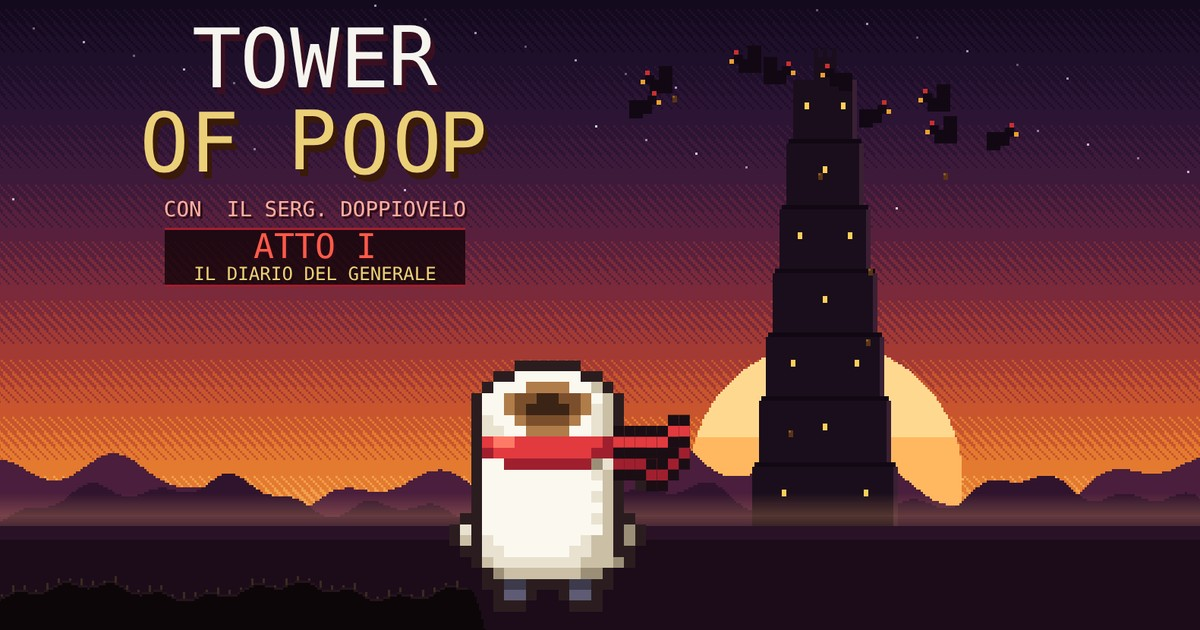
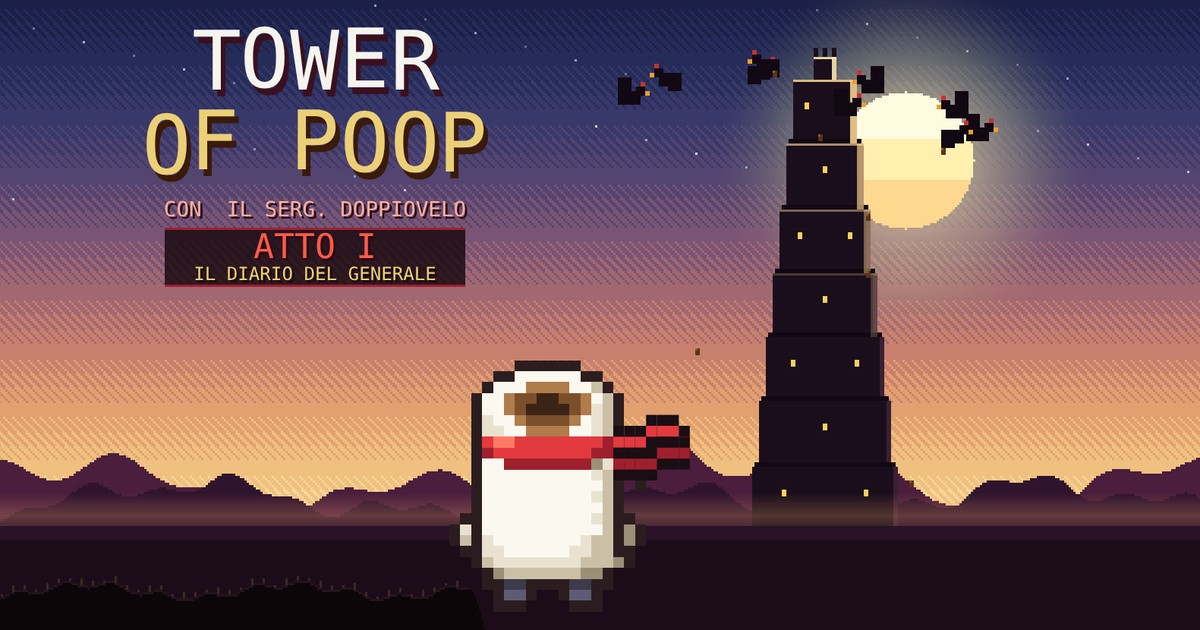
v165: the title sky follows the act
Act I: a high pale sun beside the top of the tower, the upper tiers lit on the
sun side. Act II: the sun halfway down, a warmer sky. Act III: the original
sunset, and the tower breathes a pulsing violet aura with rising motes (not
after the true ending, when the tower is dead). The Queen's words and her
diary flash move to the bottom right, away from the menu. New preview image.

Claude-Session: https://claude.ai/code/session_01DAUgbKHXpAstmYQjE4nBJ9

diff --git a/build/tower-of-poop.html b/build/tower-of-poop.html
@@ -3436,7 +3436,7 @@ Object.assign(BRULE,{
    phase(b,ph){b.mt=1;},draw(b){if(b.mw){ctx.globalAlpha=.25+.25*Math.sin(G.time*30);ell(ctx,b.x,b.y-b.r*.6,b.r*1.3,b.r*1.4,'#ffffff');ctx.globalAlpha=1;}
    if(G.mirrorCtl>G.time){const R=b.R;ctx.globalAlpha=.18+.08*Math.sin(G.time*8);ctx.strokeStyle='#c8e8ff';ctx.lineWidth=3;ctx.strokeRect(R.x0+2,R.y0+2,R.x1-R.x0-4,R.y1-R.y0-4);ctx.globalAlpha=1;}}}});
 // ---------- anonymous play stats: no names, no ids, nothing that leads back to a person ----------
-const STATV=164;
+const STATV=165;
 const ERRSENT=new Set();
 function statErr(err){if(ERRSENT.size>=8||!statOnWorker())return;const msg=String(err&&err.message||err||'?').slice(0,90),st=String(err&&err.stack||'').split('\n').find(l=>/:\d+:\d+/.test(l))||'',at=(st.match(/:(\d+:\d+)\)?\s*$/)||[])[1]||'';const key=msg+at;if(ERRSENT.has(key))return;ERRSENT.add(key);statPost({t:'err',msg,at});}
 addEventListener('error',e=>{try{statErr(e.error||e.message);}catch(_){}});
@@ -3619,6 +3619,45 @@ function frenzyOverButtons(cx, y) {
   one(cx + 4, 92, TTX(L3('BASTION', 'BALUARDO', 'BALUARTE')), '#3a2a12', () => { FADE = .8; enterHub(); });
 }
 function overTap(e) { if (!(G && G.frenzy) || performance.now() - (S.overT0 || 0) < 1500) return false; for (const b of S.oBtns || []) if (hitDev(e, b.r)) { b.act(); return true; } return false; }
+// ---------- the title sky follows the story: high sun in act I, halfway in act II, sunset and a violet aura in act III ----------
+function titleSun(g, act, w, h, hz, tx) {
+  if (act >= 3) return false; // act III keeps the original sunset
+  const sr = Math.round(h * (act === 1 ? .085 : .11)), sx = tx + Math.round(h * (act === 1 ? .1 : .13)), sy = act === 1 ? Math.round(h * .2) : Math.round(hz - h * .26);
+  // halo
+  for (let r = sr * 3; r > sr; r -= 2) { g.globalAlpha = .05 * (1 - (r - sr) / (sr * 2)); g.fillStyle = act === 1 ? '#fff0b0' : '#ffc070'; g.beginPath(); g.arc(sx, sy, r, 0, Math.PI * 2); g.fill(); }
+  g.globalAlpha = 1;
+  for (let y = -sr; y <= sr; y++) for (let x = -sr; x <= sr; x++) if (x * x + y * y <= sr * sr) {
+    g.fillStyle = act === 1 ? (y < -sr * .3 ? '#fffbe0' : y < sr * .3 ? '#fff0b0' : '#ffd890') : (y < -sr * .3 ? '#ffe0a0' : y < sr * .2 ? '#ffc070' : '#ff9a50'); g.fillRect(sx + x, sy + y, 1, 1);
+  }
+  return true;
+}
+function titleSky(act) {
+  if (act === 1) return ['#1c2048', '#262c5a', '#38386a', '#544470', '#7a5474', '#a26872', '#c8806e', '#e2a070', '#f0c080', '#f6d898'];
+  if (act === 2) return ['#18102a', '#24163a', '#341c44', '#4c2448', '#6a2e48', '#8e3a44', '#b44e3a', '#d86c36', '#ea8e40', '#f4ae58'];
+  return null;
+}
+// sunlight on the side of the tower that faces the sun
+function titleTowerLight(g, act, h, B) {
+  if (act >= 3) return; const base = B.hz + 2, th = (base - B.top) / 7, n = act === 1 ? 4 : 2;
+  for (let i = 7 - n; i < 7; i++) {
+    const y0 = Math.round(base - (i + 1) * th), y1 = Math.round(base - i * th), hw = Math.round((26 - i * 2.4) * h / 288), k = (i - (7 - n) + 1) / n;
+    g.globalAlpha = (act === 1 ? .85 : .55) * k; g.fillStyle = act === 1 ? '#ffd890' : '#ffb060'; g.fillRect(B.tx + hw - 3, y0, 3, y1 - y0); g.fillRect(B.tx - hw, y0, hw * 2, 1);
+  }
+  g.globalAlpha = act === 1 ? .9 : .6; g.fillStyle = act === 1 ? '#ffe8b0' : '#ffc070'; g.fillRect(B.tx - 5, B.top - 10, 10, 1); g.fillRect(B.tx + 3, B.top - 10, 2, 10); g.globalAlpha = 1;
+}
+// act III: the tower breathes a violet aura
+function titleAura(B, t, h) {
+  const tx = B.tx, top = B.top - 14, base = B.hz + 2, mid = (top + base) / 2, p = .65 + .35 * Math.sin(t * 1.6);
+  ctx.save(); ctx.globalCompositeOperation = 'lighter';
+  const gr = ctx.createRadialGradient(tx, mid, h * .04, tx, mid, h * .46); gr.addColorStop(0, 'rgba(170,70,230,' + (.3 * p) + ')'); gr.addColorStop(.6, 'rgba(130,40,200,' + (.12 * p) + ')'); gr.addColorStop(1, 'rgba(120,40,180,0)');
+  ctx.fillStyle = gr; ctx.fillRect(tx - h * .5, top - h * .2, h, base - top + h * .3);
+  titleTower(B, h, (i, y0, y1, hw) => { ctx.globalAlpha = .45 * p; ctx.fillStyle = '#c070ff'; ctx.fillRect(tx - hw - 2, y0, 2, y1 - y0); ctx.fillRect(tx + hw, y0, 2, y1 - y0); });
+  if (!reduced) for (let k = 0; k < 18; k++) {
+    const per = 4 + k % 5, u = ((t + k * 1.37) % per) / per, x = tx + Math.sin(k * 2.1 + t * .7) * (h * .05 + (k % 4) * 3), y = base - u * (base - top + h * .12);
+    ctx.globalAlpha = (1 - u) * .85; ctx.fillStyle = k % 3 ? '#d8a0ff' : '#ffffff'; ctx.fillRect(Math.round(x), Math.round(y), 1 + (k % 5 === 0), 1 + (k % 5 === 0));
+  }
+  ctx.restore();
+}
 function playScene(lines,title,sub,after){S.mode='scene';S.scene={lines,i:0,ch:0,title,sub,after,right:(lines.find(l=>l[0]!=='two'&&l[0]!=='nar'&&l[0]!=='book')||['sponge'])[0]};setState();}
 function showMap(from,to,after){S.mode='map';S.mapA={from,to,t:0,after};setState();}
 function advanceStory(){
@@ -5868,7 +5907,7 @@ function titleRootNet(B,w,h){if(TRN&&TRN.w===w&&TRN.h===h)return TRN.n;let sd=97
   TRN={w,h,n:out};return out;}
 function titleStage(){try{if(SV.qEnd)return 5;const n=qCount(),tg=fallenTagCount();if(n>=21&&tg>=12)return 4;if(n>=14)return 3;if(n>=7)return 2;if(n>=1)return 1;}catch(e){}return 0;}
 function titleTower(B,h,fn){const base=B.hz+2,th=(base-B.top)/7;for(let i=0;i<7;i++){const y0=Math.round(base-(i+1)*th),y1=Math.round(base-i*th),hw=Math.round((26-i*2.4)*h/288);fn(i,y0,y1,hw);}}
-function titleBack(B,t,QS,w,h){if(!QS)return;const tx=B.tx;
+function titleBack(B,t,QS,w,h){if(B.act>=3&&QS!==5)titleAura(B,t,h);if(!QS)return;const tx=B.tx;
   if(QS===5){// dawn: a pale sky, a dead grey tower without lights
     const g=ctx.createLinearGradient(0,0,0,B.hz);g.addColorStop(0,'rgba(110,150,200,.62)');g.addColorStop(.7,'rgba(240,190,170,.5)');g.addColorStop(1,'rgba(255,220,180,.45)');ctx.fillStyle=g;ctx.fillRect(0,0,w,B.hz);
     titleTower(B,h,(i,y0,y1,hw)=>{rect(ctx,tx-hw,y0,hw*2,y1-y0,'#4a4650');rect(ctx,tx+hw-2,y0,2,y1-y0,'#5c5864');rect(ctx,tx-hw-2,y1-2,hw*2+4,2,'#36323c');});
@@ -5900,14 +5939,14 @@ function titleFront(B,t,QS,sc,hx,hy,w,h){if(!QS)return;
     if(!SPR.qhenB)SPR.qhenB=fromMap(QHENB.f[0],QHENB.p);const im=SPR.qhenB,k=Math.max(1,sc-1),cx=hx-Math.round(16*sc),gy=B.ctop+Math.round(Math.sin(cx*.3)*1.5+Math.sin(cx*.07)*3),bob=Math.sin(t*1.3)>.92?-k:0;ctx.save();ctx.translate(cx-Math.round(im.width*k/2),gy-im.height*k+k+bob);ctx.scale(k,k);ctx.drawImage(im,0,0);ctx.restore();}
   // her words, trembling in violet, now and then
   const L=TPHR[QS];if(L&&L.length){const cyc=11,c=t%cyc,i=Math.floor(t/cyc)%L.length;if(c>1.5&&c<7){const a=Math.min(1,(c-1.5)/.8,(7-c)/.8);const str=LG==='it'?L[i][1]:L[i][0];
-      ctx.globalAlpha=a;const lines=wrapText(str,Math.round(w*.46),10);lines.forEach((l,j)=>{ctx.font=(10*FONTK)+'px Silkscreen, ui-monospace, monospace';const lw=ctx.measureText(l).width;livingText(l,Math.round(w*.3-lw/2),Math.round(h*.06)+76+j*15,10,'#c070f0',t,j*30+i*7,1.3,999);});ctx.globalAlpha=1;}}
-  if(QS===4&&!reduced&&(t%5)<1.1){ctx.globalAlpha=.5+.5*Math.sin(t*20);NOTR=true;waveText(LG==='it'?'IL DIARIO DELLA REGINA':T_('THE QUEEN\'S DIARY'),Math.round(w*.3),Math.round(h*.06)+60,9,'#c87aff','#1a0420',t,1.5);NOTR=false;ctx.globalAlpha=1;}}
-function titleBackdrop(w,h){const [c,g]=mk(w,h),hz=Math.round(h*.66);
-  const sky=['#140a1e','#1e0f2a','#2c1434','#3e1a3a','#58203c','#7a2a3a','#a33a34','#c8552e','#e47a30','#f2a04a'];
+      ctx.globalAlpha=a;const lines=wrapText(str,Math.round(w*.46),10);lines.forEach((l,j)=>{ctx.font=(10*FONTK)+'px Silkscreen, ui-monospace, monospace';const lw=ctx.measureText(l).width;livingText(l,Math.round(w*.7-lw/2),Math.round(h*.7)-lines.length*15+j*15,10,'#c070f0',t,j*30+i*7,1.3,999);});ctx.globalAlpha=1;}}
+  if(QS===4&&!reduced&&(t%5)<1.1){ctx.globalAlpha=.5+.5*Math.sin(t*20);NOTR=true;waveText(LG==='it'?'IL DIARIO DELLA REGINA':T_('THE QUEEN\'S DIARY'),Math.round(w*.7),Math.round(h*.75),9,'#c87aff','#1a0420',t,1.5);NOTR=false;ctx.globalAlpha=1;}}
+function titleBackdrop(w,h,act){act=act||3;const [c,g]=mk(w,h),hz=Math.round(h*.66);
+  const sky=titleSky(act)||['#140a1e','#1e0f2a','#2c1434','#3e1a3a','#58203c','#7a2a3a','#a33a34','#c8552e','#e47a30','#f2a04a'];
   for(let y=0;y<hz;y++){const f=y/hz*(sky.length-1),i=Math.floor(f),fr=f-i;for(let x=0;x<w;x++){const d=((x*7+y*13)%4)/4;g.fillStyle=sky[Math.min(sky.length-1,i+(fr>d+.12?1:0))];g.fillRect(x,y,1,1);}}
   for(let i=0;i<40;i++){const x=(i*97)%w,y=(i*53)%Math.round(hz*.45);g.fillStyle=i%3?'#e8d8ff':'#ffffff';g.globalAlpha=.35+(i%4)*.15;g.fillRect(x,y,1,1);}g.globalAlpha=1;
   const tx=Math.round(w*.7),sr=Math.round(h*.17),sy=hz-Math.round(h*.06);
-  for(let y=-sr;y<=sr;y++)for(let x=-sr;x<=sr;x++)if(x*x+y*y<=sr*sr&&sy+y<hz){const yy=sy+y;if(y>sr*.15&&(Math.floor((yy)/3)%3===0))continue;g.fillStyle=y<-sr*.3?'#ffd890':y<sr*.2?'#ffb860':'#ff8a48';g.fillRect(tx+x,yy,1,1);}
+  if(!titleSun(g,act,w,h,hz,tx))for(let y=-sr;y<=sr;y++)for(let x=-sr;x<=sr;x++)if(x*x+y*y<=sr*sr&&sy+y<hz){const yy=sy+y;if(y>sr*.15&&(Math.floor((yy)/3)%3===0))continue;g.fillStyle=y<-sr*.3?'#ffd890':y<sr*.2?'#ffb860':'#ff8a48';g.fillRect(tx+x,yy,1,1);}
   const ridge=(amp,base,col,seed,sc)=>{g.fillStyle=col;for(let x=0;x<w;x++){const v=Math.sin(x*.021*sc+seed)*.5+Math.sin(x*.057*sc+seed*2)*.3+Math.sin(x*.13*sc+seed*3)*.2;const top=Math.round(base-amp*(v*.5+.5));g.fillRect(x,top,1,hz-top+1);}};
   ridge(h*.12,hz,'#4a1e3c',1.3,1);ridge(h*.07,hz,'#30142e',4.1,1.6);
   // the tower
@@ -5917,6 +5956,7 @@ function titleBackdrop(w,h){const [c,g]=mk(w,h),hz=Math.round(h*.66);
     g.fillStyle='#120814';g.fillRect(tx-hw-2,y1-2,hw*2+4,2);
     for(let k=-1;k<=1;k++)if((i+k+3)%2===0){g.fillStyle='#ffcf5a';g.fillRect(tx+k*Math.round(hw*.55)-1,y0+Math.round((y1-y0)*.35),2,3);}}
   g.fillStyle='#1a0e1c';g.fillRect(tx-5,top-10,10,10);for(const dx of [-5,-1,3])g.fillRect(tx+dx,top-14,2,4);
+  titleTowerLight(g,act,h,{tx,top,hz});
   // haze over the horizon
   for(let y=hz-14;y<hz+4;y++){g.globalAlpha=(1-Math.abs(y-hz+5)/10)*.25;g.fillStyle='#ffb070';g.fillRect(0,y,w,1);}g.globalAlpha=1;
   // plain below the horizon
@@ -5926,7 +5966,7 @@ function titleBackdrop(w,h){const [c,g]=mk(w,h),hz=Math.round(h*.66);
   for(let x=0;x<=cx1+20;x++){const edge=x<cx1?ctop+Math.round(Math.sin(x*.3)*1.5+Math.sin(x*.07)*3):ctop+Math.round((x-cx1)*(x-cx1)*.35);g.fillRect(x,edge,1,h-edge);}
   g.fillStyle='#24141c';for(let x=0;x<cx1;x+=1){const e=ctop+Math.round(Math.sin(x*.3)*1.5+Math.sin(x*.07)*3);g.fillRect(x,e,1,1);if(x%5===0){g.fillStyle='#3a2a20';g.fillRect(x,e-1-(x%3),1,1+(x%3));g.fillStyle='#24141c';}}
   return {c,hz,tx,top,ctop,cx1};}
-function drawCine(){const w=Math.ceil(W),h=Math.ceil(H),t=S.cineT;if(!TBG||TBG.w!==w||TBG.h!==h)TBG=Object.assign({w,h},titleBackdrop(w,h));const B=TBG;
+function drawCine(){const w=Math.ceil(W),h=Math.ceil(H),t=S.cineT;{const A=storyAct();if(!TBG||TBG.w!==w||TBG.h!==h||TBG.act!==A)TBG=Object.assign({w,h,act:A},titleBackdrop(w,h,A));}const B=TBG;
   const e=x=>x<0?0:x>1?1:x*x*(3-2*x),p=e(t/3.2),z=Math.pow(10,p),fx=B.tx,fy=B.hz-h*.07;
   const sw=w/z,sh=h/z,sx=clamp(fx-sw/2+(w/2-fx)*(1-p)*(1/z),0,w-sw),sy=clamp(fy-sh*.62+(h/2-fy)*(1-p)*(1/z),0,h-sh);
   ctx.drawImage(B.c,sx,sy,sw,sh,0,0,W,H);
@@ -5959,7 +5999,7 @@ function drawSplash(){const t=S.splT,a=t<.4?t/.4:t<1.5?1:Math.max(0,(2-t)/.5);re
   ctx.font='bold 30px "Hiragino Mincho ProN","Yu Mincho","Noto Serif JP","Noto Sans JP",serif';ctx.textAlign='center';ctx.textBaseline='alphabetic';ctx.fillStyle='#5a3a08';ctx.fillText('心',cx+1,cy-6);ctx.fillStyle='#ffd23f';ctx.fillText('心',cx,cy-7);
   txt('KOKORO STUDIO',cx,cy+2,'#f6f4ee','center',16,'#3a0a10');txt('presents',cx,cy+26,'#c8b090','center',8,null);ctx.globalAlpha=1;}
 function drawTitle(){const w=Math.ceil(W),h=Math.ceil(H),t=S.t;
-  if(!TBG||TBG.w!==w||TBG.h!==h)TBG=Object.assign({w,h},titleBackdrop(w,h));const B=TBG;
+  {const A=storyAct();if(!TBG||TBG.w!==w||TBG.h!==h||TBG.act!==A)TBG=Object.assign({w,h,act:A},titleBackdrop(w,h,A));}const B=TBG;
   ctx.drawImage(B.c,0,0);const QS=titleStage();titleBack(B,t,QS,w,h);
   // the flock circling the top of the tower, pooping on the land below
   const n=QS===5?0:9,fx=[];for(let i=0;i<n;i++){const a=t*.55+i*TAU/n,r=(30+(i%3)*10)*h/288;const x=B.tx+Math.cos(a)*r*1.5,y=B.top+6+Math.sin(a*1.3)*r*.35+(i%2)*6;fx.push([x,y]);

diff --git a/worker/www/index.html b/worker/www/index.html
@@ -3464,7 +3464,7 @@ Object.assign(BRULE,{
    phase(b,ph){b.mt=1;},draw(b){if(b.mw){ctx.globalAlpha=.25+.25*Math.sin(G.time*30);ell(ctx,b.x,b.y-b.r*.6,b.r*1.3,b.r*1.4,'#ffffff');ctx.globalAlpha=1;}
    if(G.mirrorCtl>G.time){const R=b.R;ctx.globalAlpha=.18+.08*Math.sin(G.time*8);ctx.strokeStyle='#c8e8ff';ctx.lineWidth=3;ctx.strokeRect(R.x0+2,R.y0+2,R.x1-R.x0-4,R.y1-R.y0-4);ctx.globalAlpha=1;}}}});
 // ---------- anonymous play stats: no names, no ids, nothing that leads back to a person ----------
-const STATV=164;
+const STATV=165;
 const ERRSENT=new Set();
 function statErr(err){if(ERRSENT.size>=8||!statOnWorker())return;const msg=String(err&&err.message||err||'?').slice(0,90),st=String(err&&err.stack||'').split('\n').find(l=>/:\d+:\d+/.test(l))||'',at=(st.match(/:(\d+:\d+)\)?\s*$/)||[])[1]||'';const key=msg+at;if(ERRSENT.has(key))return;ERRSENT.add(key);statPost({t:'err',msg,at});}
 addEventListener('error',e=>{try{statErr(e.error||e.message);}catch(_){}});
@@ -3647,6 +3647,45 @@ function frenzyOverButtons(cx, y) {
   one(cx + 4, 92, TTX(L3('BASTION', 'BALUARDO', 'BALUARTE')), '#3a2a12', () => { FADE = .8; enterHub(); });
 }
 function overTap(e) { if (!(G && G.frenzy) || performance.now() - (S.overT0 || 0) < 1500) return false; for (const b of S.oBtns || []) if (hitDev(e, b.r)) { b.act(); return true; } return false; }
+// ---------- the title sky follows the story: high sun in act I, halfway in act II, sunset and a violet aura in act III ----------
+function titleSun(g, act, w, h, hz, tx) {
+  if (act >= 3) return false; // act III keeps the original sunset
+  const sr = Math.round(h * (act === 1 ? .085 : .11)), sx = tx + Math.round(h * (act === 1 ? .1 : .13)), sy = act === 1 ? Math.round(h * .2) : Math.round(hz - h * .26);
+  // halo
+  for (let r = sr * 3; r > sr; r -= 2) { g.globalAlpha = .05 * (1 - (r - sr) / (sr * 2)); g.fillStyle = act === 1 ? '#fff0b0' : '#ffc070'; g.beginPath(); g.arc(sx, sy, r, 0, Math.PI * 2); g.fill(); }
+  g.globalAlpha = 1;
+  for (let y = -sr; y <= sr; y++) for (let x = -sr; x <= sr; x++) if (x * x + y * y <= sr * sr) {
+    g.fillStyle = act === 1 ? (y < -sr * .3 ? '#fffbe0' : y < sr * .3 ? '#fff0b0' : '#ffd890') : (y < -sr * .3 ? '#ffe0a0' : y < sr * .2 ? '#ffc070' : '#ff9a50'); g.fillRect(sx + x, sy + y, 1, 1);
+  }
+  return true;
+}
+function titleSky(act) {
+  if (act === 1) return ['#1c2048', '#262c5a', '#38386a', '#544470', '#7a5474', '#a26872', '#c8806e', '#e2a070', '#f0c080', '#f6d898'];
+  if (act === 2) return ['#18102a', '#24163a', '#341c44', '#4c2448', '#6a2e48', '#8e3a44', '#b44e3a', '#d86c36', '#ea8e40', '#f4ae58'];
+  return null;
+}
+// sunlight on the side of the tower that faces the sun
+function titleTowerLight(g, act, h, B) {
+  if (act >= 3) return; const base = B.hz + 2, th = (base - B.top) / 7, n = act === 1 ? 4 : 2;
+  for (let i = 7 - n; i < 7; i++) {
+    const y0 = Math.round(base - (i + 1) * th), y1 = Math.round(base - i * th), hw = Math.round((26 - i * 2.4) * h / 288), k = (i - (7 - n) + 1) / n;
+    g.globalAlpha = (act === 1 ? .85 : .55) * k; g.fillStyle = act === 1 ? '#ffd890' : '#ffb060'; g.fillRect(B.tx + hw - 3, y0, 3, y1 - y0); g.fillRect(B.tx - hw, y0, hw * 2, 1);
+  }
+  g.globalAlpha = act === 1 ? .9 : .6; g.fillStyle = act === 1 ? '#ffe8b0' : '#ffc070'; g.fillRect(B.tx - 5, B.top - 10, 10, 1); g.fillRect(B.tx + 3, B.top - 10, 2, 10); g.globalAlpha = 1;
+}
+// act III: the tower breathes a violet aura
+function titleAura(B, t, h) {
+  const tx = B.tx, top = B.top - 14, base = B.hz + 2, mid = (top + base) / 2, p = .65 + .35 * Math.sin(t * 1.6);
+  ctx.save(); ctx.globalCompositeOperation = 'lighter';
+  const gr = ctx.createRadialGradient(tx, mid, h * .04, tx, mid, h * .46); gr.addColorStop(0, 'rgba(170,70,230,' + (.3 * p) + ')'); gr.addColorStop(.6, 'rgba(130,40,200,' + (.12 * p) + ')'); gr.addColorStop(1, 'rgba(120,40,180,0)');
+  ctx.fillStyle = gr; ctx.fillRect(tx - h * .5, top - h * .2, h, base - top + h * .3);
+  titleTower(B, h, (i, y0, y1, hw) => { ctx.globalAlpha = .45 * p; ctx.fillStyle = '#c070ff'; ctx.fillRect(tx - hw - 2, y0, 2, y1 - y0); ctx.fillRect(tx + hw, y0, 2, y1 - y0); });
+  if (!reduced) for (let k = 0; k < 18; k++) {
+    const per = 4 + k % 5, u = ((t + k * 1.37) % per) / per, x = tx + Math.sin(k * 2.1 + t * .7) * (h * .05 + (k % 4) * 3), y = base - u * (base - top + h * .12);
+    ctx.globalAlpha = (1 - u) * .85; ctx.fillStyle = k % 3 ? '#d8a0ff' : '#ffffff'; ctx.fillRect(Math.round(x), Math.round(y), 1 + (k % 5 === 0), 1 + (k % 5 === 0));
+  }
+  ctx.restore();
+}
 function playScene(lines,title,sub,after){S.mode='scene';S.scene={lines,i:0,ch:0,title,sub,after,right:(lines.find(l=>l[0]!=='two'&&l[0]!=='nar'&&l[0]!=='book')||['sponge'])[0]};setState();}
 function showMap(from,to,after){S.mode='map';S.mapA={from,to,t:0,after};setState();}
 function advanceStory(){
@@ -5896,7 +5935,7 @@ function titleRootNet(B,w,h){if(TRN&&TRN.w===w&&TRN.h===h)return TRN.n;let sd=97
   TRN={w,h,n:out};return out;}
 function titleStage(){try{if(SV.qEnd)return 5;const n=qCount(),tg=fallenTagCount();if(n>=21&&tg>=12)return 4;if(n>=14)return 3;if(n>=7)return 2;if(n>=1)return 1;}catch(e){}return 0;}
 function titleTower(B,h,fn){const base=B.hz+2,th=(base-B.top)/7;for(let i=0;i<7;i++){const y0=Math.round(base-(i+1)*th),y1=Math.round(base-i*th),hw=Math.round((26-i*2.4)*h/288);fn(i,y0,y1,hw);}}
-function titleBack(B,t,QS,w,h){if(!QS)return;const tx=B.tx;
+function titleBack(B,t,QS,w,h){if(B.act>=3&&QS!==5)titleAura(B,t,h);if(!QS)return;const tx=B.tx;
   if(QS===5){// dawn: a pale sky, a dead grey tower without lights
     const g=ctx.createLinearGradient(0,0,0,B.hz);g.addColorStop(0,'rgba(110,150,200,.62)');g.addColorStop(.7,'rgba(240,190,170,.5)');g.addColorStop(1,'rgba(255,220,180,.45)');ctx.fillStyle=g;ctx.fillRect(0,0,w,B.hz);
     titleTower(B,h,(i,y0,y1,hw)=>{rect(ctx,tx-hw,y0,hw*2,y1-y0,'#4a4650');rect(ctx,tx+hw-2,y0,2,y1-y0,'#5c5864');rect(ctx,tx-hw-2,y1-2,hw*2+4,2,'#36323c');});
@@ -5928,14 +5967,14 @@ function titleFront(B,t,QS,sc,hx,hy,w,h){if(!QS)return;
     if(!SPR.qhenB)SPR.qhenB=fromMap(QHENB.f[0],QHENB.p);const im=SPR.qhenB,k=Math.max(1,sc-1),cx=hx-Math.round(16*sc),gy=B.ctop+Math.round(Math.sin(cx*.3)*1.5+Math.sin(cx*.07)*3),bob=Math.sin(t*1.3)>.92?-k:0;ctx.save();ctx.translate(cx-Math.round(im.width*k/2),gy-im.height*k+k+bob);ctx.scale(k,k);ctx.drawImage(im,0,0);ctx.restore();}
   // her words, trembling in violet, now and then
   const L=TPHR[QS];if(L&&L.length){const cyc=11,c=t%cyc,i=Math.floor(t/cyc)%L.length;if(c>1.5&&c<7){const a=Math.min(1,(c-1.5)/.8,(7-c)/.8);const str=LG==='it'?L[i][1]:L[i][0];
-      ctx.globalAlpha=a;const lines=wrapText(str,Math.round(w*.46),10);lines.forEach((l,j)=>{ctx.font=(10*FONTK)+'px Silkscreen, ui-monospace, monospace';const lw=ctx.measureText(l).width;livingText(l,Math.round(w*.3-lw/2),Math.round(h*.06)+76+j*15,10,'#c070f0',t,j*30+i*7,1.3,999);});ctx.globalAlpha=1;}}
-  if(QS===4&&!reduced&&(t%5)<1.1){ctx.globalAlpha=.5+.5*Math.sin(t*20);NOTR=true;waveText(LG==='it'?'IL DIARIO DELLA REGINA':T_('THE QUEEN\'S DIARY'),Math.round(w*.3),Math.round(h*.06)+60,9,'#c87aff','#1a0420',t,1.5);NOTR=false;ctx.globalAlpha=1;}}
-function titleBackdrop(w,h){const [c,g]=mk(w,h),hz=Math.round(h*.66);
-  const sky=['#140a1e','#1e0f2a','#2c1434','#3e1a3a','#58203c','#7a2a3a','#a33a34','#c8552e','#e47a30','#f2a04a'];
+      ctx.globalAlpha=a;const lines=wrapText(str,Math.round(w*.46),10);lines.forEach((l,j)=>{ctx.font=(10*FONTK)+'px Silkscreen, ui-monospace, monospace';const lw=ctx.measureText(l).width;livingText(l,Math.round(w*.7-lw/2),Math.round(h*.7)-lines.length*15+j*15,10,'#c070f0',t,j*30+i*7,1.3,999);});ctx.globalAlpha=1;}}
+  if(QS===4&&!reduced&&(t%5)<1.1){ctx.globalAlpha=.5+.5*Math.sin(t*20);NOTR=true;waveText(LG==='it'?'IL DIARIO DELLA REGINA':T_('THE QUEEN\'S DIARY'),Math.round(w*.7),Math.round(h*.75),9,'#c87aff','#1a0420',t,1.5);NOTR=false;ctx.globalAlpha=1;}}
+function titleBackdrop(w,h,act){act=act||3;const [c,g]=mk(w,h),hz=Math.round(h*.66);
+  const sky=titleSky(act)||['#140a1e','#1e0f2a','#2c1434','#3e1a3a','#58203c','#7a2a3a','#a33a34','#c8552e','#e47a30','#f2a04a'];
   for(let y=0;y<hz;y++){const f=y/hz*(sky.length-1),i=Math.floor(f),fr=f-i;for(let x=0;x<w;x++){const d=((x*7+y*13)%4)/4;g.fillStyle=sky[Math.min(sky.length-1,i+(fr>d+.12?1:0))];g.fillRect(x,y,1,1);}}
   for(let i=0;i<40;i++){const x=(i*97)%w,y=(i*53)%Math.round(hz*.45);g.fillStyle=i%3?'#e8d8ff':'#ffffff';g.globalAlpha=.35+(i%4)*.15;g.fillRect(x,y,1,1);}g.globalAlpha=1;
   const tx=Math.round(w*.7),sr=Math.round(h*.17),sy=hz-Math.round(h*.06);
-  for(let y=-sr;y<=sr;y++)for(let x=-sr;x<=sr;x++)if(x*x+y*y<=sr*sr&&sy+y<hz){const yy=sy+y;if(y>sr*.15&&(Math.floor((yy)/3)%3===0))continue;g.fillStyle=y<-sr*.3?'#ffd890':y<sr*.2?'#ffb860':'#ff8a48';g.fillRect(tx+x,yy,1,1);}
+  if(!titleSun(g,act,w,h,hz,tx))for(let y=-sr;y<=sr;y++)for(let x=-sr;x<=sr;x++)if(x*x+y*y<=sr*sr&&sy+y<hz){const yy=sy+y;if(y>sr*.15&&(Math.floor((yy)/3)%3===0))continue;g.fillStyle=y<-sr*.3?'#ffd890':y<sr*.2?'#ffb860':'#ff8a48';g.fillRect(tx+x,yy,1,1);}
   const ridge=(amp,base,col,seed,sc)=>{g.fillStyle=col;for(let x=0;x<w;x++){const v=Math.sin(x*.021*sc+seed)*.5+Math.sin(x*.057*sc+seed*2)*.3+Math.sin(x*.13*sc+seed*3)*.2;const top=Math.round(base-amp*(v*.5+.5));g.fillRect(x,top,1,hz-top+1);}};
   ridge(h*.12,hz,'#4a1e3c',1.3,1);ridge(h*.07,hz,'#30142e',4.1,1.6);
   // the tower
@@ -5945,6 +5984,7 @@ function titleBackdrop(w,h){const [c,g]=mk(w,h),hz=Math.round(h*.66);
     g.fillStyle='#120814';g.fillRect(tx-hw-2,y1-2,hw*2+4,2);
     for(let k=-1;k<=1;k++)if((i+k+3)%2===0){g.fillStyle='#ffcf5a';g.fillRect(tx+k*Math.round(hw*.55)-1,y0+Math.round((y1-y0)*.35),2,3);}}
   g.fillStyle='#1a0e1c';g.fillRect(tx-5,top-10,10,10);for(const dx of [-5,-1,3])g.fillRect(tx+dx,top-14,2,4);
+  titleTowerLight(g,act,h,{tx,top,hz});
   // haze over the horizon
   for(let y=hz-14;y<hz+4;y++){g.globalAlpha=(1-Math.abs(y-hz+5)/10)*.25;g.fillStyle='#ffb070';g.fillRect(0,y,w,1);}g.globalAlpha=1;
   // plain below the horizon
@@ -5954,7 +5994,7 @@ function titleBackdrop(w,h){const [c,g]=mk(w,h),hz=Math.round(h*.66);
   for(let x=0;x<=cx1+20;x++){const edge=x<cx1?ctop+Math.round(Math.sin(x*.3)*1.5+Math.sin(x*.07)*3):ctop+Math.round((x-cx1)*(x-cx1)*.35);g.fillRect(x,edge,1,h-edge);}
   g.fillStyle='#24141c';for(let x=0;x<cx1;x+=1){const e=ctop+Math.round(Math.sin(x*.3)*1.5+Math.sin(x*.07)*3);g.fillRect(x,e,1,1);if(x%5===0){g.fillStyle='#3a2a20';g.fillRect(x,e-1-(x%3),1,1+(x%3));g.fillStyle='#24141c';}}
   return {c,hz,tx,top,ctop,cx1};}
-function drawCine(){const w=Math.ceil(W),h=Math.ceil(H),t=S.cineT;if(!TBG||TBG.w!==w||TBG.h!==h)TBG=Object.assign({w,h},titleBackdrop(w,h));const B=TBG;
+function drawCine(){const w=Math.ceil(W),h=Math.ceil(H),t=S.cineT;{const A=storyAct();if(!TBG||TBG.w!==w||TBG.h!==h||TBG.act!==A)TBG=Object.assign({w,h,act:A},titleBackdrop(w,h,A));}const B=TBG;
   const e=x=>x<0?0:x>1?1:x*x*(3-2*x),p=e(t/3.2),z=Math.pow(10,p),fx=B.tx,fy=B.hz-h*.07;
   const sw=w/z,sh=h/z,sx=clamp(fx-sw/2+(w/2-fx)*(1-p)*(1/z),0,w-sw),sy=clamp(fy-sh*.62+(h/2-fy)*(1-p)*(1/z),0,h-sh);
   ctx.drawImage(B.c,sx,sy,sw,sh,0,0,W,H);
@@ -5987,7 +6027,7 @@ function drawSplash(){const t=S.splT,a=t<.4?t/.4:t<1.5?1:Math.max(0,(2-t)/.5);re
   ctx.font='bold 30px "Hiragino Mincho ProN","Yu Mincho","Noto Serif JP","Noto Sans JP",serif';ctx.textAlign='center';ctx.textBaseline='alphabetic';ctx.fillStyle='#5a3a08';ctx.fillText('心',cx+1,cy-6);ctx.fillStyle='#ffd23f';ctx.fillText('心',cx,cy-7);
   txt('KOKORO STUDIO',cx,cy+2,'#f6f4ee','center',16,'#3a0a10');txt('presents',cx,cy+26,'#c8b090','center',8,null);ctx.globalAlpha=1;}
 function drawTitle(){const w=Math.ceil(W),h=Math.ceil(H),t=S.t;
-  if(!TBG||TBG.w!==w||TBG.h!==h)TBG=Object.assign({w,h},titleBackdrop(w,h));const B=TBG;
+  {const A=storyAct();if(!TBG||TBG.w!==w||TBG.h!==h||TBG.act!==A)TBG=Object.assign({w,h,act:A},titleBackdrop(w,h,A));}const B=TBG;
   ctx.drawImage(B.c,0,0);const QS=titleStage();titleBack(B,t,QS,w,h);
   // the flock circling the top of the tower, pooping on the land below
   const n=QS===5?0:9,fx=[];for(let i=0;i<n;i++){const a=t*.55+i*TAU/n,r=(30+(i%3)*10)*h/288;const x=B.tx+Math.cos(a)*r*1.5,y=B.top+6+Math.sin(a*1.3)*r*.35+(i%2)*6;fx.push([x,y]);

diff --git a/src/titlesky.js b/src/titlesky.js
@@ -1,0 +1,39 @@
+// ---------- the title sky follows the story: high sun in act I, halfway in act II, sunset and a violet aura in act III ----------
+function titleSun(g, act, w, h, hz, tx) {
+  if (act >= 3) return false; // act III keeps the original sunset
+  const sr = Math.round(h * (act === 1 ? .085 : .11)), sx = tx + Math.round(h * (act === 1 ? .1 : .13)), sy = act === 1 ? Math.round(h * .2) : Math.round(hz - h * .26);
+  // halo
+  for (let r = sr * 3; r > sr; r -= 2) { g.globalAlpha = .05 * (1 - (r - sr) / (sr * 2)); g.fillStyle = act === 1 ? '#fff0b0' : '#ffc070'; g.beginPath(); g.arc(sx, sy, r, 0, Math.PI * 2); g.fill(); }
+  g.globalAlpha = 1;
+  for (let y = -sr; y <= sr; y++) for (let x = -sr; x <= sr; x++) if (x * x + y * y <= sr * sr) {
+    g.fillStyle = act === 1 ? (y < -sr * .3 ? '#fffbe0' : y < sr * .3 ? '#fff0b0' : '#ffd890') : (y < -sr * .3 ? '#ffe0a0' : y < sr * .2 ? '#ffc070' : '#ff9a50'); g.fillRect(sx + x, sy + y, 1, 1);
+  }
+  return true;
+}
+function titleSky(act) {
+  if (act === 1) return ['#1c2048', '#262c5a', '#38386a', '#544470', '#7a5474', '#a26872', '#c8806e', '#e2a070', '#f0c080', '#f6d898'];
+  if (act === 2) return ['#18102a', '#24163a', '#341c44', '#4c2448', '#6a2e48', '#8e3a44', '#b44e3a', '#d86c36', '#ea8e40', '#f4ae58'];
+  return null;
+}
+// sunlight on the side of the tower that faces the sun
+function titleTowerLight(g, act, h, B) {
+  if (act >= 3) return; const base = B.hz + 2, th = (base - B.top) / 7, n = act === 1 ? 4 : 2;
+  for (let i = 7 - n; i < 7; i++) {
+    const y0 = Math.round(base - (i + 1) * th), y1 = Math.round(base - i * th), hw = Math.round((26 - i * 2.4) * h / 288), k = (i - (7 - n) + 1) / n;
+    g.globalAlpha = (act === 1 ? .85 : .55) * k; g.fillStyle = act === 1 ? '#ffd890' : '#ffb060'; g.fillRect(B.tx + hw - 3, y0, 3, y1 - y0); g.fillRect(B.tx - hw, y0, hw * 2, 1);
+  }
+  g.globalAlpha = act === 1 ? .9 : .6; g.fillStyle = act === 1 ? '#ffe8b0' : '#ffc070'; g.fillRect(B.tx - 5, B.top - 10, 10, 1); g.fillRect(B.tx + 3, B.top - 10, 2, 10); g.globalAlpha = 1;
+}
+// act III: the tower breathes a violet aura
+function titleAura(B, t, h) {
+  const tx = B.tx, top = B.top - 14, base = B.hz + 2, mid = (top + base) / 2, p = .65 + .35 * Math.sin(t * 1.6);
+  ctx.save(); ctx.globalCompositeOperation = 'lighter';
+  const gr = ctx.createRadialGradient(tx, mid, h * .04, tx, mid, h * .46); gr.addColorStop(0, 'rgba(170,70,230,' + (.3 * p) + ')'); gr.addColorStop(.6, 'rgba(130,40,200,' + (.12 * p) + ')'); gr.addColorStop(1, 'rgba(120,40,180,0)');
+  ctx.fillStyle = gr; ctx.fillRect(tx - h * .5, top - h * .2, h, base - top + h * .3);
+  titleTower(B, h, (i, y0, y1, hw) => { ctx.globalAlpha = .45 * p; ctx.fillStyle = '#c070ff'; ctx.fillRect(tx - hw - 2, y0, 2, y1 - y0); ctx.fillRect(tx + hw, y0, 2, y1 - y0); });
+  if (!reduced) for (let k = 0; k < 18; k++) {
+    const per = 4 + k % 5, u = ((t + k * 1.37) % per) / per, x = tx + Math.sin(k * 2.1 + t * .7) * (h * .05 + (k % 4) * 3), y = base - u * (base - top + h * .12);
+    ctx.globalAlpha = (1 - u) * .85; ctx.fillStyle = k % 3 ? '#d8a0ff' : '#ffffff'; ctx.fillRect(Math.round(x), Math.round(y), 1 + (k % 5 === 0), 1 + (k % 5 === 0));
+  }
+  ctx.restore();
+}

diff --git a/tests/title_acts.js b/tests/title_acts.js
@@ -1,0 +1,11 @@
+// title sky for each act
+const {chromium}=require('playwright');const path=require('path');(async()=>{const b=await chromium.launch({executablePath:process.env.CHROMIUM||undefined});
+const p=await b.newPage({viewport:{width:960,height:540},deviceScaleFactor:1.5});const errs=[];p.on('pageerror',e=>errs.push(e.message));
+await p.goto('file://'+path.resolve(__dirname,'../build/tw.html'));await p.waitForTimeout(800);await p.evaluate(()=>{localStorage.clear();localStorage.setItem('top_lang','it')});await p.reload();await p.waitForTimeout(1500);
+await p.evaluate(()=>{__T.S.mode='title';});await p.waitForTimeout(1500);
+const shot=async n=>{const c=await p.$('canvas');await c.screenshot({path:__dirname+'/out/sky_'+n+'.png'});};
+await shot('act1');
+await p.evaluate(()=>{__T.SV.pages=Array.from({length:21},(_,i)=>i+1);});await p.waitForTimeout(800);await shot('act2');
+await p.evaluate(()=>{__T.SV.act3=1;});await p.waitForTimeout(800);await shot('act3');
+await p.evaluate(()=>{__T.SV.qp=Array.from({length:14},(_,i)=>'q'+i);});await p.waitForTimeout(13000);await shot('act3_qs');
+console.log(errs);await b.close();})();

diff --git a/worker/www/sw.js b/worker/www/sw.js
@@ -1,4 +1,4 @@
-const V='top-v164';const FILES=['./','manifest.webmanifest','fonts/silkscreen-latin-400-normal.woff2','fonts/silkscreen-latin-700-normal.woff2','icons/icon-192.png','icons/icon-512.png'];
+const V='top-v165';const FILES=['./','manifest.webmanifest','fonts/silkscreen-latin-400-normal.woff2','fonts/silkscreen-latin-700-normal.woff2','icons/icon-192.png','icons/icon-512.png'];
 // a response that went through a redirect must never answer a page load (Android refuses to open the app)
 const clean=r=>r&&r.redirected?r.blob().then(b=>new Response(b,{status:200,headers:r.headers})):r;
 self.addEventListener('install',e=>{e.waitUntil(caches.open(V).then(c=>Promise.all(FILES.map(f=>fetch(f,{cache:'reload'}).then(clean).then(r=>r&&r.ok?c.put(f,r):null).catch(()=>null)))).then(()=>self.skipWaiting()));});

diff --git a/src/patch_v165.py b/src/patch_v165.py
@@ -1,0 +1,16 @@
+F='../build/tower-of-poop.html';s=open(F).read()
+def rep(a,b,cnt=1):
+    global s
+    n=s.count(a);assert n==cnt,(a[:70],n);s=s.replace(a,b)
+rep('function playScene(',open('titlesky.js').read()+'function playScene(')
+# the backdrop depends on the act
+rep("function titleBackdrop(w,h){const [c,g]=mk(w,h),hz=Math.round(h*.66);\n  const sky=['#140a1e',","function titleBackdrop(w,h,act){act=act||3;const [c,g]=mk(w,h),hz=Math.round(h*.66);\n  const sky=titleSky(act)||['#140a1e',")
+rep("const tx=Math.round(w*.7),sr=Math.round(h*.17),sy=hz-Math.round(h*.06);\n  for(let y=-sr;y<=sr;y++)","const tx=Math.round(w*.7),sr=Math.round(h*.17),sy=hz-Math.round(h*.06);\n  if(!titleSun(g,act,w,h,hz,tx))for(let y=-sr;y<=sr;y++)")
+rep("  // haze over the horizon\n","  titleTowerLight(g,act,h,{tx,top,hz});\n  // haze over the horizon\n")
+rep("if(!TBG||TBG.w!==w||TBG.h!==h)TBG=Object.assign({w,h},titleBackdrop(w,h));","{const A=storyAct();if(!TBG||TBG.w!==w||TBG.h!==h||TBG.act!==A)TBG=Object.assign({w,h,act:A},titleBackdrop(w,h,A));}",2)
+rep("function titleBack(B,t,QS,w,h){if(!QS)return;const tx=B.tx;","function titleBack(B,t,QS,w,h){if(B.act>=3&&QS!==5)titleAura(B,t,h);if(!QS)return;const tx=B.tx;")
+# the Queen's words and the flash of her diary move away from the menu, to the bottom right
+rep("livingText(l,Math.round(w*.3-lw/2),Math.round(h*.06)+76+j*15,10,'#c070f0',t,j*30+i*7,1.3,999);","livingText(l,Math.round(w*.7-lw/2),Math.round(h*.7)-lines.length*15+j*15,10,'#c070f0',t,j*30+i*7,1.3,999);")
+rep("waveText(LG==='it'?'IL DIARIO DELLA REGINA':T_('THE QUEEN\\'S DIARY'),Math.round(w*.3),Math.round(h*.06)+60,9,","waveText(LG==='it'?'IL DIARIO DELLA REGINA':T_('THE QUEEN\\'S DIARY'),Math.round(w*.7),Math.round(h*.75),9,")
+rep("const STATV=164;","const STATV=165;")
+open(F,'w').write(s);print('v165 ok')
